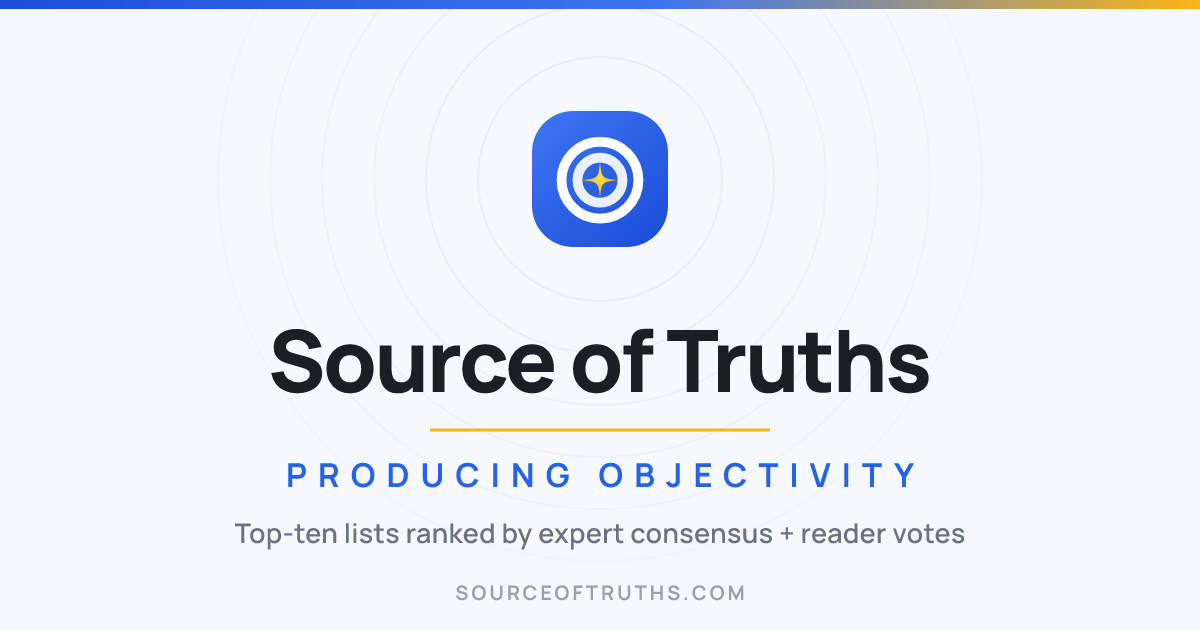
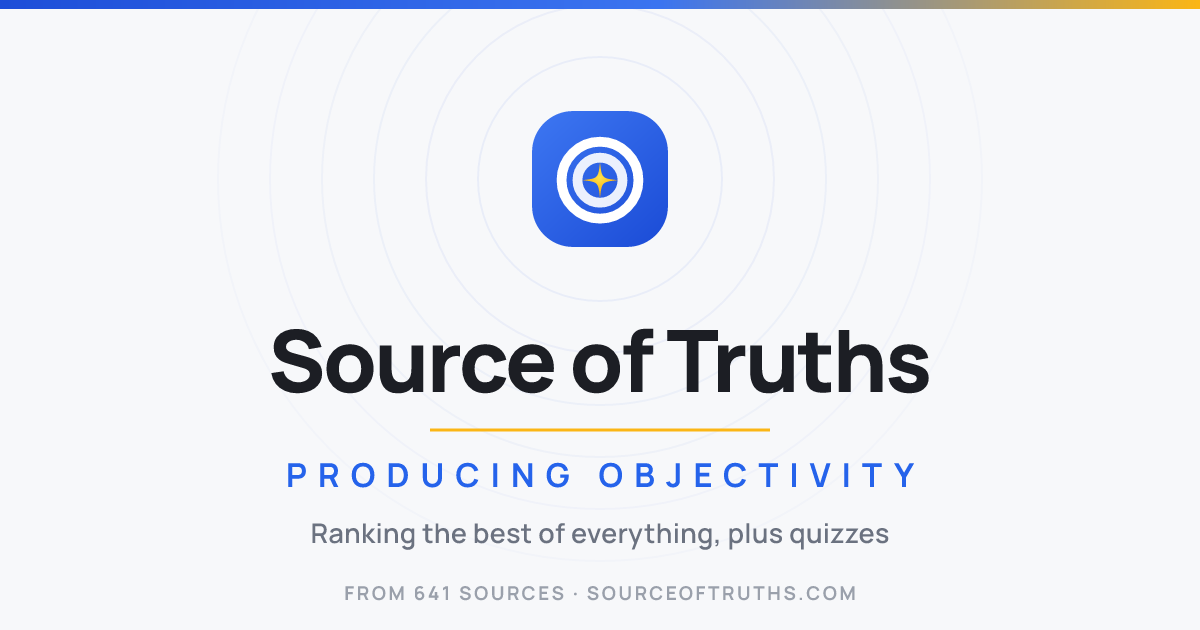
Rebrand copy: swap remaining on-page tagline to 'Producing Objectivity'; metadata + JSON-LD -> 'Producing objectivity from 641 sources', ranking the best + quizzes (drop top-ten phrasing); share card subline + 641-sources stat

Changed region(s): [[0.185, 0.8143, 0.8017, 0.8746], [0.2775, 0.9048, 0.7092, 0.9651]]

diff --git a/app/layout.js b/app/layout.js
@@ -6,17 +6,17 @@ import { Analytics } from '@vercel/analytics/next';
 export const metadata = {
   metadataBase: new URL('https://sourceoftruths.com'),
   title: 'Source of Truths | Producing Objectivity',
-  description: 'Producing objectivity from subjective opinion. Curated top-ten lists ranked by expert consensus and reader votes, from dive bars and pizza to luxury resorts, films, books, and products.',
+  description: 'Producing objectivity from 641 sources. Ranking the best of everything, from restaurants and bars to hotels, books, films, and products, plus quizzes to test what you know.',
   openGraph: {
     title: 'Source of Truths | Producing Objectivity',
-    description: 'Producing objectivity from subjective opinion. Curated top-ten lists ranked by expert consensus and reader votes, from dive bars and pizza to luxury resorts, films, books, and products.',
+    description: 'Producing objectivity from 641 sources. Ranking the best of everything, from restaurants and bars to hotels, books, films, and products, plus quizzes to test what you know.',
     url: 'https://sourceoftruths.com',
     type: 'website',
   },
   twitter: {
     card: 'summary_large_image',
     title: 'Source of Truths | Producing Objectivity',
-    description: 'Many voices, one verified answer. Top-ten lists ranked by expert consensus and reader votes.',
+    description: 'Producing objectivity from 641 sources. Ranking the best of everything, plus quizzes to test what you know.',
   },
 formatDetection: {
     telephone: false,
@@ -36,7 +36,7 @@ const websiteJsonLd = {
   name: 'Source of Truths',
   alternateName: 'Source of Truths | Producing Objectivity',
   url: 'https://sourceoftruths.com',
-  description: 'Ranked lists of the best restaurants, hotels, bars, products, films, books, and more, built from expert sources and reader votes using Borda consensus scoring.',
+  description: 'Ranking the best of everything, from restaurants, hotels, and bars to products, films, and books, plus quizzes, built from 641 expert and reader sources using Borda consensus scoring.',
 };
 
 const organizationJsonLd = {
@@ -46,7 +46,7 @@ const organizationJsonLd = {
   alternateName: 'Source of Truths | Producing Objectivity',
   url: 'https://sourceoftruths.com',
   logo: 'https://sourceoftruths.com/icon.png',
-  description: 'Curated top-ten lists ranked by expert consensus and reader votes, built using Borda consensus scoring.',
+  description: 'Producing objectivity from 641 sources: ranking the best of everything, plus quizzes, scored by expert and reader consensus using Borda methodology.',
 };
 
 const collectionJsonLd = {

diff --git a/scripts/generate-og-images.js b/scripts/generate-og-images.js
@@ -328,8 +328,8 @@ function createHomepageImageSVG() {
   <!-- gurus text in red italic -->
   <text x="600" y="290" font-family="Georgia, serif" font-size="85" font-style="italic" fill="#c0392b" text-anchor="middle" letter-spacing="2">gurus</text>
   
-  <!-- Tagline - "For All the Important Aspects of Life" -->
-  <text x="600" y="350" font-family="Arial, sans-serif" font-size="18" fill="#282828" text-anchor="middle">For All the Important Aspects of Life</text>
+  <!-- Tagline - "Producing Objectivity" -->
+  <text x="600" y="350" font-family="Arial, sans-serif" font-size="18" fill="#282828" text-anchor="middle">Producing Objectivity</text>
   
   <!-- Bottom decorative line -->
   <line x1="50" y1="520" x2="1150" y2="520" stroke="#282828" stroke-width="1"/>

diff --git a/app/create/CreateClient.jsx b/app/create/CreateClient.jsx
@@ -428,7 +428,7 @@ const Board = forwardRef(function Board({ tiles, format, title, voteData, extras
           >
             {title.trim()}
           </span>
-          <span style={{ textAlign: 'right' }}>For All of the Important Aspects of Life</span>
+          <span style={{ textAlign: 'right' }}>Producing Objectivity</span>
         </div>
 
         <div style={{ display: 'grid', gridTemplateColumns: `repeat(${format.cols}, minmax(0, 1fr))`, gap: 22, alignItems: 'stretch' }}>

diff --git a/app/HomeClient.jsx b/app/HomeClient.jsx
@@ -1739,7 +1739,7 @@ export default function HomeClient() {
                 margin: '0 0 26px',
               }}
             >
-              For all the important aspects of life.
+              Producing Objectivity.
             </p>
             <p
               style={{
